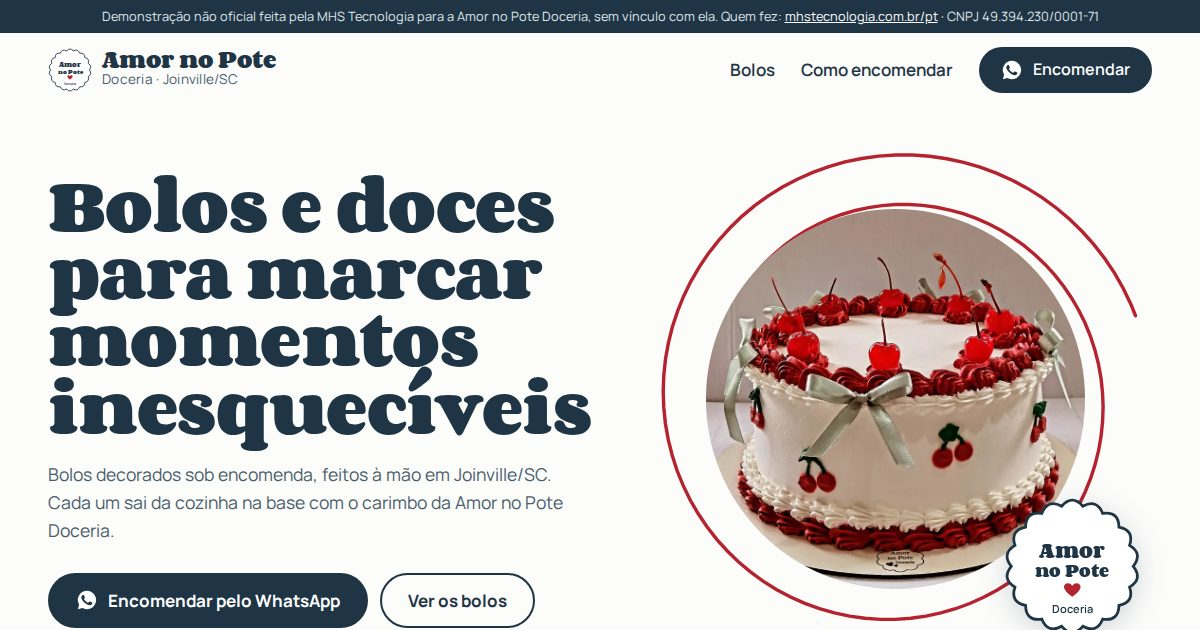
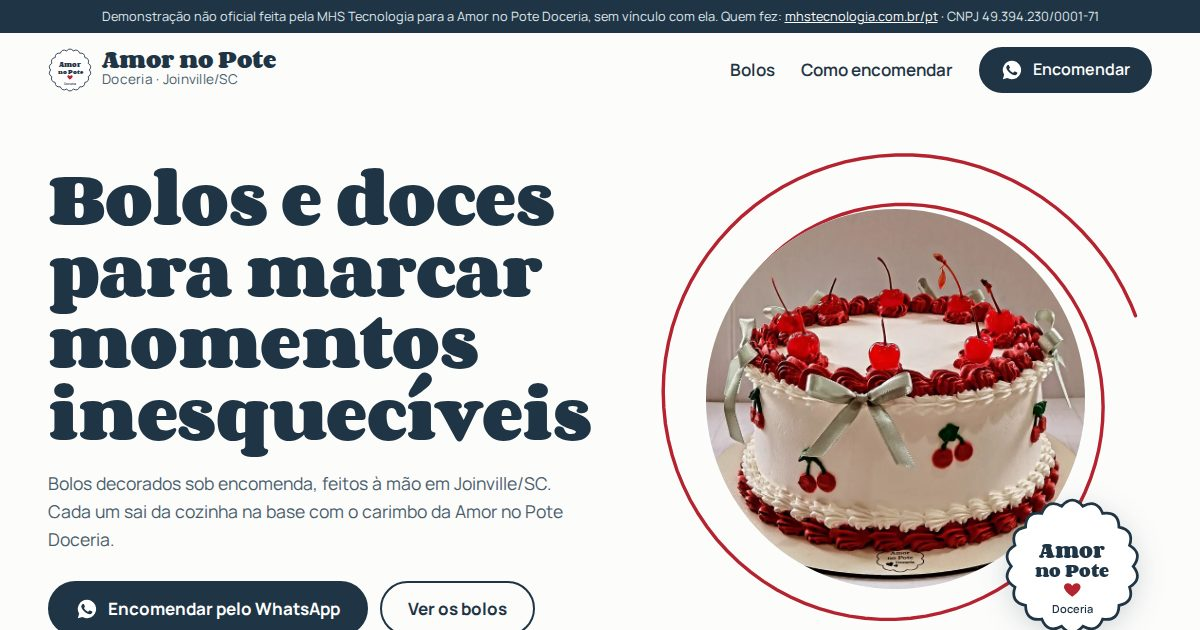
Previews: 119 ativos

Changed region(s): [[0.0308, 0.4825, 0.4933, 0.8746], [0.0308, 0.2714, 0.4625, 0.4825], [0.0308, 0.9048, 0.4625, 1.0]]

diff --git a/amor-no-pote-joinville-sc/index.html b/amor-no-pote-joinville-sc/index.html
@@ -48,6 +48,23 @@
   </div>
 </section>
 
+<section class="secao espiral-secao" aria-labelledby="t-espiral">
+  <svg class="espiral fundo-espiral" viewBox="0 0 600 600" aria-hidden="true" style="--len:7247"><path d="M300.0 292.0L300.6 291.6L301.2 291.3L301.9 291.1L302.6 290.9L303.4 290.7L304.2 290.6L305.0 290.6L305.8 290.7L306.7 290.8L307.6 291.0L308.4 291.3L309.3 291.6L310.2 292.1L311.0 292.6L311.8 293.2L312.6 293.8L313.4 294.6L314.1 295.4L314.7 296.3L315.3 297.3L315.8 298.3L316.3 299.4L316.7 300.6L317.0 301.8L317.2 303.0L317.3 304.3L317.3 305.6L317.2 307.0L317.0 308.3L316.7 309.7L316.3 311.0L315.8 312.4L315.2 313.7L314.5 315.0L313.6 316.3L312.7 317.5L311.6 318.6L310.5 319.7L309.2 320.8L307.9 321.7L306.5 322.6L305.0 323.3L303.4 324.0L301.7 324.6L300.0 325.0L298.2 325.3L296.4 325.5L294.6 325.6L292.7 325.5L290.8 325.3L288.9 324.9L287.0 324.4L285.2 323.8L283.3 323.0L281.5 322.0L279.7 321.0L278.1 319.8L276.4 318.4L274.9 316.9L273.4 315.3L272.1 313.6L270.9 311.8L269.8 309.8L268.8 307.8L267.9 305.7L267.2 303.4L266.7 301.2L266.3 298.8L266.1 296.4L266.1 294.0L266.2 291.6L266.5 289.1L267.0 286.7L267.7 284.2L268.5 281.8L269.6 279.5L270.8 277.2L272.2 274.9L273.7 272.8L275.4 270.7L277.3 268.8L279.3 266.9L281.5 265.3L283.8 263.7L286.3 262.3L288.8 261.1L291.5 260.0L294.3 259.2L297.1 258.5L300.0 258.0L303.0 257.7L306.0 257.7L309.0 257.8L312.0 258.2L315.0 258.8L318.0 259.6L321.0 260.6L323.9 261.8L326.7 263.3L329.4 264.9L332.1 266.8L334.6 268.9L337.0 271.1L339.2 273.6L341.3 276.2L343.2 278.9L344.9 281.9L346.4 284.9L347.7 288.1L348.8 291.4L349.7 294.8L350.3 298.2L350.7 301.8L350.8 305.3L350.7 308.9L350.3 312.5L349.6 316.1L348.7 319.7L347.6 323.2L346.2 326.7L344.5 330.0L342.6 333.3L340.5 336.4L338.1 339.5L335.5 342.3L332.7 345.0L329.7 347.5L326.5 349.8L323.1 351.8L319.5 353.7L315.8 355.3L312.0 356.6L308.1 357.7L304.1 358.5L300.0 359.0L295.9 359.2L291.7 359.2L287.5 358.8L283.3 358.2L279.2 357.2L275.1 356.0L271.1 354.4L267.1 352.6L263.3 350.5L259.6 348.1L256.1 345.4L252.8 342.5L249.6 339.3L246.7 335.9L244.0 332.3L241.5 328.5L239.3 324.5L237.4 320.3L235.8 316.0L234.5 311.6L233.4 307.0L232.7 302.3L232.4 297.6L232.3 292.9L232.6 288.1L233.2 283.4L234.2 278.6L235.5 273.9L237.1 269.3L239.1 264.8L241.4 260.5L244.0 256.2L246.9 252.2L250.1 248.3L253.6 244.7L257.3 241.3L261.3 238.1L265.6 235.2L270.0 232.6L274.7 230.4L279.5 228.4L284.4 226.8L289.5 225.5L294.7 224.6L300.0 224.0L305.3 223.8L310.7 224.0L316.0 224.6L321.4 225.5L326.6 226.8L331.8 228.5L336.9 230.6L341.9 233.0L346.7 235.8L351.3 238.9L355.7 242.3L359.8 246.1L363.8 250.2L367.4 254.5L370.7 259.2L373.7 264.0L376.4 269.1L378.7 274.4L380.7 279.9L382.3 285.5L383.5 291.2L384.3 297.1L384.6 303.0L384.6 308.9L384.1 314.8L383.3 320.8L382.0 326.6L380.3 332.4L378.2 338.1L375.6 343.7L372.7 349.0L369.4 354.2L365.7 359.2L361.7 363.9L357.4 368.3L352.7 372.5L347.7 376.3L342.4 379.8L336.9 382.9L331.2 385.6L325.2 387.9L319.1 389.9L312.8 391.3L306.5 392.4L300.0 393.0L293.5 393.2L287.0 392.8L280.4 392.1L273.9 390.8L267.5 389.2L261.3 387.0L255.1 384.4L249.1 381.4L243.3 378.0L237.8 374.1L232.5 369.9L227.5 365.3L222.8 360.3L218.5 355.0L214.6 349.3L211.0 343.4L207.8 337.2L205.1 330.8L202.8 324.2L201.0 317.5L199.6 310.6L198.8 303.5L198.4 296.5L198.5 289.3L199.1 282.2L200.2 275.1L201.9 268.1L204.0 261.2L206.6 254.4L209.6 247.8L213.2 241.4L217.2 235.3L221.6 229.4L226.5 223.9L231.7 218.6L237.3 213.8L243.3 209.3L249.6 205.2L256.2 201.6L263.0 198.4L270.1 195.7L277.4 193.5L284.8 191.8L292.4 190.6L300.0 190.0L307.7 189.9L315.4 190.3L323.1 191.3L330.7 192.8L338.3 194.9L345.7 197.4L352.9 200.5L359.9 204.2L366.7 208.3L373.1 212.8L379.3 217.9L385.1 223.4L390.6 229.3L395.6 235.5L400.2 242.2L404.3 249.1L407.9 256.4L411.1 263.9L413.7 271.7L415.8 279.6L417.3 287.7L418.2 295.9L418.6 304.1L418.4 312.4L417.6 320.7L416.3 329.0L414.3 337.1L411.8 345.2L408.7 353.0L405.1 360.7L400.9 368.1L396.2 375.2L391.0 381.9L385.3 388.4L379.2 394.4L372.7 400.0L365.7 405.1L358.4 409.8L350.7 413.9L342.8 417.6L334.6 420.6L326.2 423.1L317.6 425.0L308.8 426.3L300.0 427.0L291.1 427.1L282.2 426.5L273.4 425.3L264.6 423.5L255.9 421.1L247.4 418.1L239.1 414.5L231.1 410.3L223.4 405.5L215.9 400.2L208.9 394.3L202.3 388.0L196.1 381.2L190.3 374.0L185.1 366.3L180.4 358.3L176.3 350.0L172.7 341.3L169.8 332.5L167.5 323.4L165.8 314.1L164.8 304.7L164.4 295.3L164.7 285.8L165.6 276.3L167.2 266.9L169.5 257.6L172.4 248.5L176.0 239.5L180.2 230.8L185.0 222.4L190.4 214.4L196.4 206.7L202.9 199.4L209.9 192.6L217.4 186.3L225.3 180.4L233.6 175.2L242.4 170.5L251.4 166.5L260.7 163.0L270.3 160.3L280.1 158.1L290.0 156.7L300.0 156.0L310.1 156.0L320.1 156.7L330.2 158.0L340.1 160.1L349.9 162.9L359.5 166.4L368.8 170.5L377.9 175.3L386.6 180.8L395.0 186.8L402.9 193.4L410.4 200.6L417.3 208.3L423.8 216.5L429.6 225.2L434.9 234.2L439.5 243.7L443.4 253.4L446.7 263.4L449.3 273.7L451.1 284.1L452.2 294.7L452.6 305.3L452.2 316.0L451.1 326.6L449.3 337.2L446.7 347.7L443.3 357.9L439.3 367.9L434.5 377.7L429.1 387.1L423.0 396.1L416.3 404.7L409.0 412.8L401.1 420.4L392.6 427.5L383.7 434.0L374.3 439.8L364.6 445.0L354.4 449.5L344.0 453.3L333.2 456.4L322.3 458.7L311.2 460.2L300.0 461.0L288.7 461.0L277.5 460.2L266.3 458.6L255.2 456.2L244.3 453.1L233.6 449.2L223.2 444.5L213.1 439.1L203.4 433.0L194.1 426.2L185.3 418.8L177.0 410.8L169.3 402.1L162.1 393.0L155.7 383.3L149.9 373.2L144.8 362.7L140.4 351.9L136.8 340.7L134.0 329.3L132.0 317.7L130.8 305.9L130.4 294.1L130.9 282.2L132.1 270.4L134.3 258.7L137.2 247.1L140.9 235.7L145.4 224.6L150.8 213.8L156.8 203.4L163.6 193.4L171.1 183.9L179.2 174.9L188.0 166.5L197.4 158.7L207.3 151.6L217.7 145.2L228.5 139.5L239.8 134.5L251.4 130.3L263.2 127.0L275.3 124.5L287.6 122.8L300.0 122.0L312.4 122.1L324.9 123.0L337.2 124.8L349.5 127.4L361.5 131.0L373.3 135.3L384.8 140.5L395.9 146.5L406.6 153.2L416.8 160.8L426.5 169.0L435.6 177.9L444.1 187.4L452.0 197.5L459.1 208.2L465.4 219.3L471.0 230.9L475.8 242.9L479.7 255.2L482.7 267.8L484.9 280.6L486.2 293.5L486.6 306.5L486.0 319.6L484.6 332.5L482.2 345.4L479.0 358.2L474.8 370.6L469.8 382.8L464.0 394.7L457.3 406.1L449.8 417.0L441.5 427.4L432.6 437.3L422.9 446.5L412.6 455.0L401.7 462.8L390.3 469.8L378.4 476.1L366.0 481.5L353.3 486.0L340.3 489.6L327.0 492.4L313.6 494.1L300.0 495.0L286.4 494.9L272.8 493.9L259.2 491.8L245.8 488.9L232.7 485.0L219.8 480.2L207.2 474.5L195.1 467.9L183.4 460.5L172.2 452.3L161.7 443.3L151.7 433.5L142.5 423.1L134.0 412.0L126.2 400.3L119.3 388.1L113.2 375.5L108.1 362.4L103.8 348.9L100.5 335.2L98.2 321.2L96.8 307.1L96.4 292.9L97.1 278.7L98.7 264.5L101.3 250.4L104.8 236.6L109.4 223.0L114.9 209.7L121.3 196.8L128.6 184.4L136.8 172.5L145.8 161.2L155.6 150.5L166.2 140.5L177.4 131.2L189.3 122.8L201.7 115.2L214.7 108.4L228.1 102.6L242.0 97.7L256.2 93.7L270.6 90.8L285.2 88.9L300.0 88.0L314.8 88.1L329.6 89.3L344.3 91.5L358.9 94.8L373.2 99.0L387.2 104.3L400.8 110.5L413.9 117.7L426.6 125.7L438.7 134.7L450.2 144.5L460.9 155.1L470.9 166.5L480.1 178.5L488.5 191.2L496.0 204.4L502.5 218.2L508.1 232.4L512.7 247.0L516.2 261.9L518.7 277.0L520.2 292.3L520.6 307.7L519.9 323.1L518.1 338.5L515.2 353.7L511.3 368.7L506.4 383.4L500.4 397.7L493.4 411.7L485.5 425.1L476.6 438.0L466.8 450.2L456.2 461.7L444.8 472.5L432.6 482.5L419.7 491.6L406.3 499.9L392.2 507.1L377.7 513.4L362.7 518.7L347.4 522.9L331.8 526.0L315.9 528.1L300.0 529.0L284.0 528.8L268.0 527.5L252.2 525.1L236.5 521.6L221.0 517.0L205.9 511.3L191.2 504.5L177.0 496.8L163.4 488.0L150.4 478.3L138.0 467.7L126.5 456.3L115.7 444.0L105.8 431.0L96.8 417.3L88.7 403.0L81.7 388.2L75.7 372.9L70.8 357.1L67.0 341.1L64.4 324.8L62.8 308.3L62.5 291.7L63.2 275.1L65.2 258.6L68.3 242.2L72.5 226.1L77.9 210.3L84.3 194.8L91.9 179.8L100.4 165.4L110.0 151.6L120.6 138.4L132.0 126.0L144.3 114.4L157.4 103.7L171.2 93.9L185.8 85.1L200.9 77.3L216.5 70.6L232.6 65.0L249.1 60.5L265.9 57.1L282.9 55.0L300.0 54.0L317.2 54.2L334.3 55.6L351.4 58.3L368.2 62.1L384.8 67.1L401.0 73.2L416.7 80.5L432.0 88.8L446.6 98.2L460.6 108.7L473.8 120.1L486.2 132.4L497.7 145.5L508.3 159.5L517.9 174.2L526.5 189.5L534.0 205.4L540.4 221.9L545.7 238.8L549.7 256.0L552.5 273.5L554.2 291.1L554.5 308.9L553.7 326.7L551.6 344.4L548.2 361.9L543.7 379.2L537.9 396.1L531.0 412.6L522.9 428.7L513.7 444.1L503.4 458.9L492.1 472.9L479.8 486.2L466.6 498.6L452.6 510.0L437.8 520.5L422.2 529.9L406.0 538.2L389.3 545.4L372.1 551.4L354.4 556.1L336.5 559.7L318.3 562.0L300.0 563.0L281.6 562.7L263.3 561.2L245.1 558.4L227.1 554.3L209.4 548.9L192.1 542.3L175.3 534.6L159.0 525.6L143.4 515.5L128.5 504.4L114.4 492.2L101.2 479.0L88.9 464.9L77.6 450.0L67.3 434.3L58.2 417.9L50.2 400.9L43.4 383.4L37.8 365.4L33.6 347.0L30.6 328.3L28.9 309.5L28.5 290.5L29.4 271.6L31.7 252.7L35.3 234.0L40.2 215.6L46.3 197.5L53.8 179.9L62.4 162.8L72.3 146.4L83.2 130.6L95.3 115.7L108.4 101.6L122.4 88.4L137.4 76.2L153.2 65.1L169.8 55.1L187.0 46.3L204.9 38.7L223.2 32.3L242.0 27.2L261.1 23.5L280.5 21.1L300.0 20.0"/></svg>
+  <div class="caixa acab">
+    <div class="acab-txt">
+      <h2 id="t-espiral">O topo em espiral, puxado na espátula</h2>
+      <p>É o acabamento que aparece em vários bolos dela: chantilly liso nas laterais e uma espiral no topo, às vezes com borda dourada, às vezes com flores naturais por cima.</p>
+      <blockquote class="citacao"><p>“Nossa produção é 100% artesanal, feita com tempo e carinho.”</p><cite>Amor no Pote Doceria, no Instagram</cite></blockquote>
+      <div class="acoes"><a class="btn" href="https://wa.me/5547996255507?text=Ol%C3%A1%2C%20Amor%20no%20Pote!%20Vi%20o%20site%20e%20quero%20um%20bolo%20com%20o%20topo%20em%20espiral."><svg viewBox="0 0 24 24" aria-hidden="true"><path fill="currentColor" d="M12 2a10 10 0 0 0-8.6 15.1L2 22l5-1.3A10 10 0 1 0 12 2Zm5.7 14.2c-.2.7-1.4 1.3-2 1.4-.5.1-1.2.1-1.9-.1-.4-.1-1-.3-1.7-.6-3-1.3-4.9-4.3-5.1-4.5-.1-.2-1.2-1.6-1.2-3 0-1.4.8-2.1 1-2.4.3-.3.6-.4.8-.4h.6c.2 0 .4 0 .6.5l.8 2c.1.2.1.4 0 .6l-.3.5-.4.5c-.1.1-.3.3-.1.6.2.3.8 1.3 1.7 2.1 1.2 1 2.1 1.4 2.4 1.5.3.1.5.1.7-.1l.9-1.1c.2-.3.4-.2.7-.1l1.9.9c.3.1.5.2.6.3.1.2.1.8-.1 1.4Z"/></svg>Quero um assim</a></div>
+    </div>
+    <ul class="acab-fotos grade">
+      <li><figure><button class="foto" type="button" data-grande="img/flores-1200.webp" data-legenda="Espiral e flores naturais" aria-label="Ampliar: Espiral e flores naturais"><img src="img/flores-800.webp" srcset="img/flores-400.webp 400w, img/flores-800.webp 800w, img/flores-1200.webp 1200w" sizes="(max-width: 860px) 92vw, 560px" width="800" height="800" alt="Bolo branco com topo em espiral e flores naturais" loading="lazy" decoding="async"></button><figcaption>Espiral e flores naturais</figcaption></figure></li>
+      <li><figure><button class="foto" type="button" data-grande="img/espiral-azul-1200.webp" data-legenda="Espiral, borda dourada e pétalas azuis" aria-label="Ampliar: Espiral, borda dourada e pétalas azuis"><img src="img/espiral-azul-800.webp" srcset="img/espiral-azul-400.webp 400w, img/espiral-azul-800.webp 800w, img/espiral-azul-1200.webp 1200w" sizes="(max-width: 860px) 46vw, 280px" width="800" height="744" alt="Bolo branco com topo em espiral, borda dourada e pétalas azuis" loading="lazy" decoding="async"></button><figcaption>Espiral, borda dourada e pétalas azuis</figcaption></figure></li>
+      <li><figure><button class="foto" type="button" data-grande="img/verde-dourado-1200.webp" data-legenda="Degradê verde com borda dourada" aria-label="Ampliar: Degradê verde com borda dourada"><img src="img/verde-dourado-800.webp" srcset="img/verde-dourado-400.webp 400w, img/verde-dourado-800.webp 800w, img/verde-dourado-1200.webp 1200w" sizes="(max-width: 860px) 46vw, 280px" width="800" height="800" alt="Bolo em degradê verde com bordas douradas e topo em espiral" loading="lazy" decoding="async"></button><figcaption>Degradê verde com borda dourada</figcaption></figure></li>
+    </ul>
+  </div>
+</section>
+
 <section class="secao secao-nevoa" aria-labelledby="t-bolos">
   <div class="caixa">
     <div class="cab"><h2 id="t-bolos">Cada bolo é decorado para a sua festa</h2><p>Fundo do mar, renda de chantilly, cerejas, degradê, campo de futebol. Toque numa foto para ver de perto.</p></div>
@@ -60,46 +77,17 @@
       <li><figure><button class="foto" type="button" data-grande="img/retangular-azul-1200.webp" data-legenda="Retangular com borda azul" aria-label="Ampliar: Retangular com borda azul"><img src="img/retangular-azul-800.webp" srcset="img/retangular-azul-400.webp 400w, img/retangular-azul-800.webp 800w, img/retangular-azul-1200.webp 1200w" sizes="(max-width: 860px) 46vw, 400px" width="800" height="800" alt="Bolo retangular branco com borda azul em bico" loading="lazy" decoding="async"></button><figcaption>Retangular com borda azul</figcaption></figure></li>
     </ul>
     <p class="mais"><a class="btn btn-2" href="bolos.html">Ver todos os bolos</a></p>
-  </div>
-</section>
-
-<section class="secao escuro frase" aria-label="Nas palavras da doceria">
-  <svg class="espiral " viewBox="0 0 600 600" aria-hidden="true" style="--len:7247"><path d="M300.0 292.0L300.6 291.6L301.2 291.3L301.9 291.1L302.6 290.9L303.4 290.7L304.2 290.6L305.0 290.6L305.8 290.7L306.7 290.8L307.6 291.0L308.4 291.3L309.3 291.6L310.2 292.1L311.0 292.6L311.8 293.2L312.6 293.8L313.4 294.6L314.1 295.4L314.7 296.3L315.3 297.3L315.8 298.3L316.3 299.4L316.7 300.6L317.0 301.8L317.2 303.0L317.3 304.3L317.3 305.6L317.2 307.0L317.0 308.3L316.7 309.7L316.3 311.0L315.8 312.4L315.2 313.7L314.5 315.0L313.6 316.3L312.7 317.5L311.6 318.6L310.5 319.7L309.2 320.8L307.9 321.7L306.5 322.6L305.0 323.3L303.4 324.0L301.7 324.6L300.0 325.0L298.2 325.3L296.4 325.5L294.6 325.6L292.7 325.5L290.8 325.3L288.9 324.9L287.0 324.4L285.2 323.8L283.3 323.0L281.5 322.0L279.7 321.0L278.1 319.8L276.4 318.4L274.9 316.9L273.4 315.3L272.1 313.6L270.9 311.8L269.8 309.8L268.8 307.8L267.9 305.7L267.2 303.4L266.7 301.2L266.3 298.8L266.1 296.4L266.1 294.0L266.2 291.6L266.5 289.1L267.0 286.7L267.7 284.2L268.5 281.8L269.6 279.5L270.8 277.2L272.2 274.9L273.7 272.8L275.4 270.7L277.3 268.8L279.3 266.9L281.5 265.3L283.8 263.7L286.3 262.3L288.8 261.1L291.5 260.0L294.3 259.2L297.1 258.5L300.0 258.0L303.0 257.7L306.0 257.7L309.0 257.8L312.0 258.2L315.0 258.8L318.0 259.6L321.0 260.6L323.9 261.8L326.7 263.3L329.4 264.9L332.1 266.8L334.6 268.9L337.0 271.1L339.2 273.6L341.3 276.2L343.2 278.9L344.9 281.9L346.4 284.9L347.7 288.1L348.8 291.4L349.7 294.8L350.3 298.2L350.7 301.8L350.8 305.3L350.7 308.9L350.3 312.5L349.6 316.1L348.7 319.7L347.6 323.2L346.2 326.7L344.5 330.0L342.6 333.3L340.5 336.4L338.1 339.5L335.5 342.3L332.7 345.0L329.7 347.5L326.5 349.8L323.1 351.8L319.5 353.7L315.8 355.3L312.0 356.6L308.1 357.7L304.1 358.5L300.0 359.0L295.9 359.2L291.7 359.2L287.5 358.8L283.3 358.2L279.2 357.2L275.1 356.0L271.1 354.4L267.1 352.6L263.3 350.5L259.6 348.1L256.1 345.4L252.8 342.5L249.6 339.3L246.7 335.9L244.0 332.3L241.5 328.5L239.3 324.5L237.4 320.3L235.8 316.0L234.5 311.6L233.4 307.0L232.7 302.3L232.4 297.6L232.3 292.9L232.6 288.1L233.2 283.4L234.2 278.6L235.5 273.9L237.1 269.3L239.1 264.8L241.4 260.5L244.0 256.2L246.9 252.2L250.1 248.3L253.6 244.7L257.3 241.3L261.3 238.1L265.6 235.2L270.0 232.6L274.7 230.4L279.5 228.4L284.4 226.8L289.5 225.5L294.7 224.6L300.0 224.0L305.3 223.8L310.7 224.0L316.0 224.6L321.4 225.5L326.6 226.8L331.8 228.5L336.9 230.6L341.9 233.0L346.7 235.8L351.3 238.9L355.7 242.3L359.8 246.1L363.8 250.2L367.4 254.5L370.7 259.2L373.7 264.0L376.4 269.1L378.7 274.4L380.7 279.9L382.3 285.5L383.5 291.2L384.3 297.1L384.6 303.0L384.6 308.9L384.1 314.8L383.3 320.8L382.0 326.6L380.3 332.4L378.2 338.1L375.6 343.7L372.7 349.0L369.4 354.2L365.7 359.2L361.7 363.9L357.4 368.3L352.7 372.5L347.7 376.3L342.4 379.8L336.9 382.9L331.2 385.6L325.2 387.9L319.1 389.9L312.8 391.3L306.5 392.4L300.0 393.0L293.5 393.2L287.0 392.8L280.4 392.1L273.9 390.8L267.5 389.2L261.3 387.0L255.1 384.4L249.1 381.4L243.3 378.0L237.8 374.1L232.5 369.9L227.5 365.3L222.8 360.3L218.5 355.0L214.6 349.3L211.0 343.4L207.8 337.2L205.1 330.8L202.8 324.2L201.0 317.5L199.6 310.6L198.8 303.5L198.4 296.5L198.5 289.3L199.1 282.2L200.2 275.1L201.9 268.1L204.0 261.2L206.6 254.4L209.6 247.8L213.2 241.4L217.2 235.3L221.6 229.4L226.5 223.9L231.7 218.6L237.3 213.8L243.3 209.3L249.6 205.2L256.2 201.6L263.0 198.4L270.1 195.7L277.4 193.5L284.8 191.8L292.4 190.6L300.0 190.0L307.7 189.9L315.4 190.3L323.1 191.3L330.7 192.8L338.3 194.9L345.7 197.4L352.9 200.5L359.9 204.2L366.7 208.3L373.1 212.8L379.3 217.9L385.1 223.4L390.6 229.3L395.6 235.5L400.2 242.2L404.3 249.1L407.9 256.4L411.1 263.9L413.7 271.7L415.8 279.6L417.3 287.7L418.2 295.9L418.6 304.1L418.4 312.4L417.6 320.7L416.3 329.0L414.3 337.1L411.8 345.2L408.7 353.0L405.1 360.7L400.9 368.1L396.2 375.2L391.0 381.9L385.3 388.4L379.2 394.4L372.7 400.0L365.7 405.1L358.4 409.8L350.7 413.9L342.8 417.6L334.6 420.6L326.2 423.1L317.6 425.0L308.8 426.3L300.0 427.0L291.1 427.1L282.2 426.5L273.4 425.3L264.6 423.5L255.9 421.1L247.4 418.1L239.1 414.5L231.1 410.3L223.4 405.5L215.9 400.2L208.9 394.3L202.3 388.0L196.1 381.2L190.3 374.0L185.1 366.3L180.4 358.3L176.3 350.0L172.7 341.3L169.8 332.5L167.5 323.4L165.8 314.1L164.8 304.7L164.4 295.3L164.7 285.8L165.6 276.3L167.2 266.9L169.5 257.6L172.4 248.5L176.0 239.5L180.2 230.8L185.0 222.4L190.4 214.4L196.4 206.7L202.9 199.4L209.9 192.6L217.4 186.3L225.3 180.4L233.6 175.2L242.4 170.5L251.4 166.5L260.7 163.0L270.3 160.3L280.1 158.1L290.0 156.7L300.0 156.0L310.1 156.0L320.1 156.7L330.2 158.0L340.1 160.1L349.9 162.9L359.5 166.4L368.8 170.5L377.9 175.3L386.6 180.8L395.0 186.8L402.9 193.4L410.4 200.6L417.3 208.3L423.8 216.5L429.6 225.2L434.9 234.2L439.5 243.7L443.4 253.4L446.7 263.4L449.3 273.7L451.1 284.1L452.2 294.7L452.6 305.3L452.2 316.0L451.1 326.6L449.3 337.2L446.7 347.7L443.3 357.9L439.3 367.9L434.5 377.7L429.1 387.1L423.0 396.1L416.3 404.7L409.0 412.8L401.1 420.4L392.6 427.5L383.7 434.0L374.3 439.8L364.6 445.0L354.4 449.5L344.0 453.3L333.2 456.4L322.3 458.7L311.2 460.2L300.0 461.0L288.7 461.0L277.5 460.2L266.3 458.6L255.2 456.2L244.3 453.1L233.6 449.2L223.2 444.5L213.1 439.1L203.4 433.0L194.1 426.2L185.3 418.8L177.0 410.8L169.3 402.1L162.1 393.0L155.7 383.3L149.9 373.2L144.8 362.7L140.4 351.9L136.8 340.7L134.0 329.3L132.0 317.7L130.8 305.9L130.4 294.1L130.9 282.2L132.1 270.4L134.3 258.7L137.2 247.1L140.9 235.7L145.4 224.6L150.8 213.8L156.8 203.4L163.6 193.4L171.1 183.9L179.2 174.9L188.0 166.5L197.4 158.7L207.3 151.6L217.7 145.2L228.5 139.5L239.8 134.5L251.4 130.3L263.2 127.0L275.3 124.5L287.6 122.8L300.0 122.0L312.4 122.1L324.9 123.0L337.2 124.8L349.5 127.4L361.5 131.0L373.3 135.3L384.8 140.5L395.9 146.5L406.6 153.2L416.8 160.8L426.5 169.0L435.6 177.9L444.1 187.4L452.0 197.5L459.1 208.2L465.4 219.3L471.0 230.9L475.8 242.9L479.7 255.2L482.7 267.8L484.9 280.6L486.2 293.5L486.6 306.5L486.0 319.6L484.6 332.5L482.2 345.4L479.0 358.2L474.8 370.6L469.8 382.8L464.0 394.7L457.3 406.1L449.8 417.0L441.5 427.4L432.6 437.3L422.9 446.5L412.6 455.0L401.7 462.8L390.3 469.8L378.4 476.1L366.0 481.5L353.3 486.0L340.3 489.6L327.0 492.4L313.6 494.1L300.0 495.0L286.4 494.9L272.8 493.9L259.2 491.8L245.8 488.9L232.7 485.0L219.8 480.2L207.2 474.5L195.1 467.9L183.4 460.5L172.2 452.3L161.7 443.3L151.7 433.5L142.5 423.1L134.0 412.0L126.2 400.3L119.3 388.1L113.2 375.5L108.1 362.4L103.8 348.9L100.5 335.2L98.2 321.2L96.8 307.1L96.4 292.9L97.1 278.7L98.7 264.5L101.3 250.4L104.8 236.6L109.4 223.0L114.9 209.7L121.3 196.8L128.6 184.4L136.8 172.5L145.8 161.2L155.6 150.5L166.2 140.5L177.4 131.2L189.3 122.8L201.7 115.2L214.7 108.4L228.1 102.6L242.0 97.7L256.2 93.7L270.6 90.8L285.2 88.9L300.0 88.0L314.8 88.1L329.6 89.3L344.3 91.5L358.9 94.8L373.2 99.0L387.2 104.3L400.8 110.5L413.9 117.7L426.6 125.7L438.7 134.7L450.2 144.5L460.9 155.1L470.9 166.5L480.1 178.5L488.5 191.2L496.0 204.4L502.5 218.2L508.1 232.4L512.7 247.0L516.2 261.9L518.7 277.0L520.2 292.3L520.6 307.7L519.9 323.1L518.1 338.5L515.2 353.7L511.3 368.7L506.4 383.4L500.4 397.7L493.4 411.7L485.5 425.1L476.6 438.0L466.8 450.2L456.2 461.7L444.8 472.5L432.6 482.5L419.7 491.6L406.3 499.9L392.2 507.1L377.7 513.4L362.7 518.7L347.4 522.9L331.8 526.0L315.9 528.1L300.0 529.0L284.0 528.8L268.0 527.5L252.2 525.1L236.5 521.6L221.0 517.0L205.9 511.3L191.2 504.5L177.0 496.8L163.4 488.0L150.4 478.3L138.0 467.7L126.5 456.3L115.7 444.0L105.8 431.0L96.8 417.3L88.7 403.0L81.7 388.2L75.7 372.9L70.8 357.1L67.0 341.1L64.4 324.8L62.8 308.3L62.5 291.7L63.2 275.1L65.2 258.6L68.3 242.2L72.5 226.1L77.9 210.3L84.3 194.8L91.9 179.8L100.4 165.4L110.0 151.6L120.6 138.4L132.0 126.0L144.3 114.4L157.4 103.7L171.2 93.9L185.8 85.1L200.9 77.3L216.5 70.6L232.6 65.0L249.1 60.5L265.9 57.1L282.9 55.0L300.0 54.0L317.2 54.2L334.3 55.6L351.4 58.3L368.2 62.1L384.8 67.1L401.0 73.2L416.7 80.5L432.0 88.8L446.6 98.2L460.6 108.7L473.8 120.1L486.2 132.4L497.7 145.5L508.3 159.5L517.9 174.2L526.5 189.5L534.0 205.4L540.4 221.9L545.7 238.8L549.7 256.0L552.5 273.5L554.2 291.1L554.5 308.9L553.7 326.7L551.6 344.4L548.2 361.9L543.7 379.2L537.9 396.1L531.0 412.6L522.9 428.7L513.7 444.1L503.4 458.9L492.1 472.9L479.8 486.2L466.6 498.6L452.6 510.0L437.8 520.5L422.2 529.9L406.0 538.2L389.3 545.4L372.1 551.4L354.4 556.1L336.5 559.7L318.3 562.0L300.0 563.0L281.6 562.7L263.3 561.2L245.1 558.4L227.1 554.3L209.4 548.9L192.1 542.3L175.3 534.6L159.0 525.6L143.4 515.5L128.5 504.4L114.4 492.2L101.2 479.0L88.9 464.9L77.6 450.0L67.3 434.3L58.2 417.9L50.2 400.9L43.4 383.4L37.8 365.4L33.6 347.0L30.6 328.3L28.9 309.5L28.5 290.5L29.4 271.6L31.7 252.7L35.3 234.0L40.2 215.6L46.3 197.5L53.8 179.9L62.4 162.8L72.3 146.4L83.2 130.6L95.3 115.7L108.4 101.6L122.4 88.4L137.4 76.2L153.2 65.1L169.8 55.1L187.0 46.3L204.9 38.7L223.2 32.3L242.0 27.2L261.1 23.5L280.5 21.1L300.0 20.0"/></svg>
-  <div class="caixa">
-    <blockquote><p>“Nossa produção é 100% artesanal, feita com tempo e carinho.”</p><cite>Amor no Pote Doceria, no Instagram</cite></blockquote>
-  </div>
-</section>
-
-<section class="secao" aria-labelledby="t-espiral">
-  <div class="caixa acab">
-    <ul class="acab-fotos grade">
-      <li><figure><button class="foto" type="button" data-grande="img/flores-1200.webp" data-legenda="Espiral e flores naturais" aria-label="Ampliar: Espiral e flores naturais"><img src="img/flores-800.webp" srcset="img/flores-400.webp 400w, img/flores-800.webp 800w, img/flores-1200.webp 1200w" sizes="(max-width: 860px) 92vw, 560px" width="800" height="800" alt="Bolo branco com topo em espiral e flores naturais" loading="lazy" decoding="async"></button><figcaption>Espiral e flores naturais</figcaption></figure></li>
-      <li><figure><button class="foto" type="button" data-grande="img/espiral-azul-1200.webp" data-legenda="Espiral, borda dourada e pétalas azuis" aria-label="Ampliar: Espiral, borda dourada e pétalas azuis"><img src="img/espiral-azul-800.webp" srcset="img/espiral-azul-400.webp 400w, img/espiral-azul-800.webp 800w, img/espiral-azul-1200.webp 1200w" sizes="(max-width: 860px) 46vw, 280px" width="800" height="744" alt="Bolo branco com topo em espiral, borda dourada e pétalas azuis" loading="lazy" decoding="async"></button><figcaption>Espiral, borda dourada e pétalas azuis</figcaption></figure></li>
-      <li><figure><button class="foto" type="button" data-grande="img/verde-dourado-1200.webp" data-legenda="Degradê verde com borda dourada" aria-label="Ampliar: Degradê verde com borda dourada"><img src="img/verde-dourado-800.webp" srcset="img/verde-dourado-400.webp 400w, img/verde-dourado-800.webp 800w, img/verde-dourado-1200.webp 1200w" sizes="(max-width: 860px) 46vw, 280px" width="800" height="800" alt="Bolo em degradê verde com bordas douradas e topo em espiral" loading="lazy" decoding="async"></button><figcaption>Degradê verde com borda dourada</figcaption></figure></li>
-    </ul>
-    <div class="acab-txt">
-      <h2 id="t-espiral">O topo em espiral, puxado na espátula</h2>
-      <p>É o acabamento que aparece em vários bolos dela: chantilly liso nas laterais e uma espiral no topo, às vezes com borda dourada, às vezes com flores naturais por cima.</p>
-      <p>Foi dessa espiral que saiu o desenho deste site.</p>
-      <div class="acoes"><a class="btn" href="https://wa.me/5547996255507?text=Ol%C3%A1%2C%20Amor%20no%20Pote!%20Vi%20o%20site%20e%20quero%20um%20bolo%20com%20o%20topo%20em%20espiral."><svg viewBox="0 0 24 24" aria-hidden="true"><path fill="currentColor" d="M12 2a10 10 0 0 0-8.6 15.1L2 22l5-1.3A10 10 0 1 0 12 2Zm5.7 14.2c-.2.7-1.4 1.3-2 1.4-.5.1-1.2.1-1.9-.1-.4-.1-1-.3-1.7-.6-3-1.3-4.9-4.3-5.1-4.5-.1-.2-1.2-1.6-1.2-3 0-1.4.8-2.1 1-2.4.3-.3.6-.4.8-.4h.6c.2 0 .4 0 .6.5l.8 2c.1.2.1.4 0 .6l-.3.5-.4.5c-.1.1-.3.3-.1.6.2.3.8 1.3 1.7 2.1 1.2 1 2.1 1.4 2.4 1.5.3.1.5.1.7-.1l.9-1.1c.2-.3.4-.2.7-.1l1.9.9c.3.1.5.2.6.3.1.2.1.8-.1 1.4Z"/></svg>Quero um assim</a></div>
-    </div>
-  </div>
-</section>
-
-<section class="secao secao-nevoa" aria-labelledby="t-tambem">
-  <div class="caixa linhas">
-    <div>
+    <div class="tambem">
       <h2 id="t-tambem">Além dos bolos decorados</h2>
-      <ul class="lista">
-        <li>Bolo de pote</li>
-        <li>Naked cake</li>
-        <li>Bento cake</li>
-        <li>Suspiro</li>
-        <li>Páscoa</li>
+      <p>Toque num deles para perguntar pelo WhatsApp.</p>
+      <ul class="pilulas">
+        <li><a class="pilula" href="https://wa.me/5547996255507?text=Ol%C3%A1%2C%20Amor%20no%20Pote!%20Vi%20o%20site%20e%20quero%20saber%20de%20bolo%20de%20pote."><svg viewBox="0 0 24 24" aria-hidden="true"><path fill="currentColor" d="M12 2a10 10 0 0 0-8.6 15.1L2 22l5-1.3A10 10 0 1 0 12 2Zm5.7 14.2c-.2.7-1.4 1.3-2 1.4-.5.1-1.2.1-1.9-.1-.4-.1-1-.3-1.7-.6-3-1.3-4.9-4.3-5.1-4.5-.1-.2-1.2-1.6-1.2-3 0-1.4.8-2.1 1-2.4.3-.3.6-.4.8-.4h.6c.2 0 .4 0 .6.5l.8 2c.1.2.1.4 0 .6l-.3.5-.4.5c-.1.1-.3.3-.1.6.2.3.8 1.3 1.7 2.1 1.2 1 2.1 1.4 2.4 1.5.3.1.5.1.7-.1l.9-1.1c.2-.3.4-.2.7-.1l1.9.9c.3.1.5.2.6.3.1.2.1.8-.1 1.4Z"/></svg>Bolo de pote</a></li>
+        <li><a class="pilula" href="https://wa.me/5547996255507?text=Ol%C3%A1%2C%20Amor%20no%20Pote!%20Vi%20o%20site%20e%20quero%20saber%20de%20naked%20cake."><svg viewBox="0 0 24 24" aria-hidden="true"><path fill="currentColor" d="M12 2a10 10 0 0 0-8.6 15.1L2 22l5-1.3A10 10 0 1 0 12 2Zm5.7 14.2c-.2.7-1.4 1.3-2 1.4-.5.1-1.2.1-1.9-.1-.4-.1-1-.3-1.7-.6-3-1.3-4.9-4.3-5.1-4.5-.1-.2-1.2-1.6-1.2-3 0-1.4.8-2.1 1-2.4.3-.3.6-.4.8-.4h.6c.2 0 .4 0 .6.5l.8 2c.1.2.1.4 0 .6l-.3.5-.4.5c-.1.1-.3.3-.1.6.2.3.8 1.3 1.7 2.1 1.2 1 2.1 1.4 2.4 1.5.3.1.5.1.7-.1l.9-1.1c.2-.3.4-.2.7-.1l1.9.9c.3.1.5.2.6.3.1.2.1.8-.1 1.4Z"/></svg>Naked cake</a></li>
+        <li><a class="pilula" href="https://wa.me/5547996255507?text=Ol%C3%A1%2C%20Amor%20no%20Pote!%20Vi%20o%20site%20e%20quero%20saber%20de%20bento%20cake."><svg viewBox="0 0 24 24" aria-hidden="true"><path fill="currentColor" d="M12 2a10 10 0 0 0-8.6 15.1L2 22l5-1.3A10 10 0 1 0 12 2Zm5.7 14.2c-.2.7-1.4 1.3-2 1.4-.5.1-1.2.1-1.9-.1-.4-.1-1-.3-1.7-.6-3-1.3-4.9-4.3-5.1-4.5-.1-.2-1.2-1.6-1.2-3 0-1.4.8-2.1 1-2.4.3-.3.6-.4.8-.4h.6c.2 0 .4 0 .6.5l.8 2c.1.2.1.4 0 .6l-.3.5-.4.5c-.1.1-.3.3-.1.6.2.3.8 1.3 1.7 2.1 1.2 1 2.1 1.4 2.4 1.5.3.1.5.1.7-.1l.9-1.1c.2-.3.4-.2.7-.1l1.9.9c.3.1.5.2.6.3.1.2.1.8-.1 1.4Z"/></svg>Bento cake</a></li>
+        <li><a class="pilula" href="https://wa.me/5547996255507?text=Ol%C3%A1%2C%20Amor%20no%20Pote!%20Vi%20o%20site%20e%20quero%20saber%20de%20suspiro."><svg viewBox="0 0 24 24" aria-hidden="true"><path fill="currentColor" d="M12 2a10 10 0 0 0-8.6 15.1L2 22l5-1.3A10 10 0 1 0 12 2Zm5.7 14.2c-.2.7-1.4 1.3-2 1.4-.5.1-1.2.1-1.9-.1-.4-.1-1-.3-1.7-.6-3-1.3-4.9-4.3-5.1-4.5-.1-.2-1.2-1.6-1.2-3 0-1.4.8-2.1 1-2.4.3-.3.6-.4.8-.4h.6c.2 0 .4 0 .6.5l.8 2c.1.2.1.4 0 .6l-.3.5-.4.5c-.1.1-.3.3-.1.6.2.3.8 1.3 1.7 2.1 1.2 1 2.1 1.4 2.4 1.5.3.1.5.1.7-.1l.9-1.1c.2-.3.4-.2.7-.1l1.9.9c.3.1.5.2.6.3.1.2.1.8-.1 1.4Z"/></svg>Suspiro</a></li>
+        <li><a class="pilula" href="https://wa.me/5547996255507?text=Ol%C3%A1%2C%20Amor%20no%20Pote!%20Vi%20o%20site%20e%20quero%20saber%20de%20P%C3%A1scoa."><svg viewBox="0 0 24 24" aria-hidden="true"><path fill="currentColor" d="M12 2a10 10 0 0 0-8.6 15.1L2 22l5-1.3A10 10 0 1 0 12 2Zm5.7 14.2c-.2.7-1.4 1.3-2 1.4-.5.1-1.2.1-1.9-.1-.4-.1-1-.3-1.7-.6-3-1.3-4.9-4.3-5.1-4.5-.1-.2-1.2-1.6-1.2-3 0-1.4.8-2.1 1-2.4.3-.3.6-.4.8-.4h.6c.2 0 .4 0 .6.5l.8 2c.1.2.1.4 0 .6l-.3.5-.4.5c-.1.1-.3.3-.1.6.2.3.8 1.3 1.7 2.1 1.2 1 2.1 1.4 2.4 1.5.3.1.5.1.7-.1l.9-1.1c.2-.3.4-.2.7-.1l1.9.9c.3.1.5.2.6.3.1.2.1.8-.1 1.4Z"/></svg>Páscoa</a></li>
       </ul>
-      <p class="nota">Sabores e tamanhos, combine direto com a doceria pelo WhatsApp.</p>
     </div>
-    <ul class="grade" style="grid-template-columns:1fr"><li><figure><button class="foto" type="button" data-grande="img/faixa-laco-1200.webp" data-legenda="Faixa transparente e laço verde" aria-label="Ampliar: Faixa transparente e laço verde"><img src="img/faixa-laco-800.webp" srcset="img/faixa-laco-400.webp 400w, img/faixa-laco-800.webp 800w, img/faixa-laco-1200.webp 1200w" sizes="(max-width: 860px) 92vw, 600px" width="800" height="800" alt="Bolo de chocolate com faixa transparente e laço verde" loading="lazy" decoding="async"></button><figcaption>Faixa transparente e laço verde</figcaption></figure></li></ul>
   </div>
 </section>
 

diff --git a/amor-no-pote-joinville-sc/estilo.css b/amor-no-pote-joinville-sc/estilo.css
@@ -17,9 +17,9 @@
 }
 *,*::before,*::after{box-sizing:border-box}
 html{-webkit-text-size-adjust:100%}
-body{margin:0;background:var(--chantilly);color:var(--ardosia);font:400 1.0625rem/1.6 Manrope,system-ui,sans-serif}
+body{margin:0;font-variant-ligatures:no-common-ligatures;background:var(--chantilly);color:var(--ardosia);font:400 1.0625rem/1.6 Manrope,system-ui,sans-serif}
 img{display:block;max-width:100%;height:auto}
-h1,h2,h3{font-family:Corben,Georgia,serif;font-weight:700;line-height:1.08;margin:0;text-wrap:balance;letter-spacing:-.01em}
+h1,h2,h3{font-family:Corben,Georgia,serif;font-weight:700;line-height:1.15;margin:0;text-wrap:balance;letter-spacing:-.01em;font-variant-ligatures:no-common-ligatures no-discretionary-ligatures}
 h1{font-size:clamp(2.35rem,5.2vw,4.4rem)}
 h2{font-size:clamp(1.85rem,3.4vw,2.9rem)}
 h3{font-size:1.3rem}
@@ -105,16 +105,11 @@ a{color:inherit}
 .acab{display:grid;grid-template-columns:1fr 1fr;gap:clamp(24px,5vw,72px);align-items:center}
 .acab-fotos{display:grid;grid-template-columns:1fr 1fr;gap:14px}
 .acab-fotos li:first-child{grid-column:1 / -1}
-.acab-fotos li:first-child img{aspect-ratio:16/11}
+.acab-fotos li:first-child img{aspect-ratio:16/11;object-position:50% 12%}
+.acab-txt h2+p{margin-top:20px}
 .acab-txt p+p{margin-top:16px}
 .acab-txt p{max-width:32em}
 
-/* também */
-.linhas{display:grid;grid-template-columns:1fr 1.1fr;gap:clamp(24px,5vw,72px);align-items:center}
-.linhas .lista{list-style:none;margin:24px 0 0;padding:0;border-top:1.5px solid var(--ardosia)}
-.linhas .lista li{display:flex;justify-content:space-between;gap:16px;padding:16px 2px;border-bottom:1.5px solid var(--ardosia);font-family:Corben,Georgia,serif;font-size:clamp(1.3rem,2vw,1.6rem)}
-.linhas .lista li span{font-family:Manrope,sans-serif;font-size:.95rem;color:var(--ardosia-2);align-self:center;text-align:right}
-.linhas .nota{margin-top:18px;color:var(--ardosia-2);font-size:.95rem}
 
 /* chamada final */
 .fim{text-align:center}
@@ -129,7 +124,7 @@ a{color:inherit}
 .passos li::before{content:counter(p);display:grid;place-items:center;width:44px;height:44px;border-radius:50%;background:var(--cereja);color:#fff;font-family:Corben,Georgia,serif;font-size:1.3rem;margin-bottom:18px}
 .passos h2{font-size:1.45rem}
 .passos p{margin-top:10px;color:var(--ardosia-2)}
-.pagina-topo{padding:clamp(24px,4vw,56px) 0 clamp(28px,4vw,48px)}
+.pagina-topo{padding-block:clamp(24px,4vw,56px) clamp(28px,4vw,48px)}
 .pagina-topo p{max-width:36em;margin-top:16px;font-size:1.15rem;color:var(--ardosia-2)}
 .pagina-topo .acoes{margin-top:24px}
 
@@ -164,8 +159,7 @@ dialog.caixa-foto::backdrop{background:rgba(20,34,45,.88)}
   .acoes{margin-top:20px}
   .acoes .btn{flex:1 1 100%}
   .grade{grid-template-columns:1fr 1fr}
-  .acab,.linhas{grid-template-columns:1fr}
-  .acab-txt{order:-1}
+  .acab{grid-template-columns:1fr}
   .passos{grid-template-columns:1fr}
   .rodape .caixa{grid-template-columns:1fr}
   .barra{display:flex;position:fixed;left:12px;right:12px;bottom:12px;z-index:25;transition:transform .3s ease,opacity .3s,visibility .3s}
@@ -176,3 +170,18 @@ dialog.caixa-foto::backdrop{background:rgba(20,34,45,.88)}
 @media (min-width:861px){.heroi-m{display:none}}
 @media (max-width:420px){.marca small{display:none}.marca b{font-size:1.1rem}}
 @media (prefers-reduced-motion:reduce){.foto img{transition:none}}
+
+/* seção da espiral: espiral grande ao fundo, citação dela dentro */
+.espiral-secao{position:relative;overflow:hidden}
+.espiral-secao .caixa{position:relative;z-index:1}
+.fundo-espiral{position:absolute;left:-14%;top:50%;width:min(70vw,760px);height:auto;transform:translateY(-50%);opacity:.18}
+.citacao{margin:28px 0 0;padding:4px 0 4px 22px;border-left:4px solid var(--cereja)}
+.citacao p{font-family:Corben,Georgia,serif;font-size:clamp(1.35rem,2.2vw,1.75rem);line-height:1.3;font-variant-ligatures:no-common-ligatures}
+.citacao cite{display:block;margin-top:8px;font-style:normal;font-size:.95rem;color:var(--ardosia-2)}
+.tambem{margin-top:clamp(48px,6vw,80px);padding-top:clamp(32px,4vw,48px);border-top:1.5px solid var(--ardosia)}
+.tambem p{margin-top:10px;color:var(--ardosia-2)}
+.pilulas{list-style:none;margin:20px 0 0;padding:0;display:flex;flex-wrap:wrap;gap:10px}
+.pilulas a{display:inline-flex;align-items:center;gap:8px;min-height:48px;padding:10px 20px;border-radius:999px;background:#fff;border:1.5px solid var(--ardosia);text-decoration:none;font-weight:700}
+.pilulas a:hover{background:var(--ardosia);color:#fff}
+.pilulas svg{width:18px;height:18px}
+@media (max-width:860px){.fundo-espiral{width:150vw;left:-25vw;top:auto;bottom:-30vw;transform:none}}

diff --git a/amor-no-pote-joinville-sc/encomendas.html b/amor-no-pote-joinville-sc/encomendas.html
@@ -28,7 +28,7 @@
 </section>
 <section class="caixa" style="padding-bottom:var(--sec)" aria-label="Passos">
   <ol class="passos">
-    <li><h2>Chame no WhatsApp</h2><p>Pelo botão abaixo ou no (47) 99625-5507.</p></li>
+    <li><h2>Chame no WhatsApp</h2><p>Pelo botão abaixo ou no <span class="nq">(47) 99625-5507</span>.</p></li>
     <li><h2>Conte a data e a ideia</h2><p>O tema da festa, as cores ou a foto de um bolo da galeria.</p></li>
     <li><h2>Combine os detalhes</h2><p>Sabor, tamanho e entrega ficam combinados direto com a doceria.</p></li>
   </ol>
